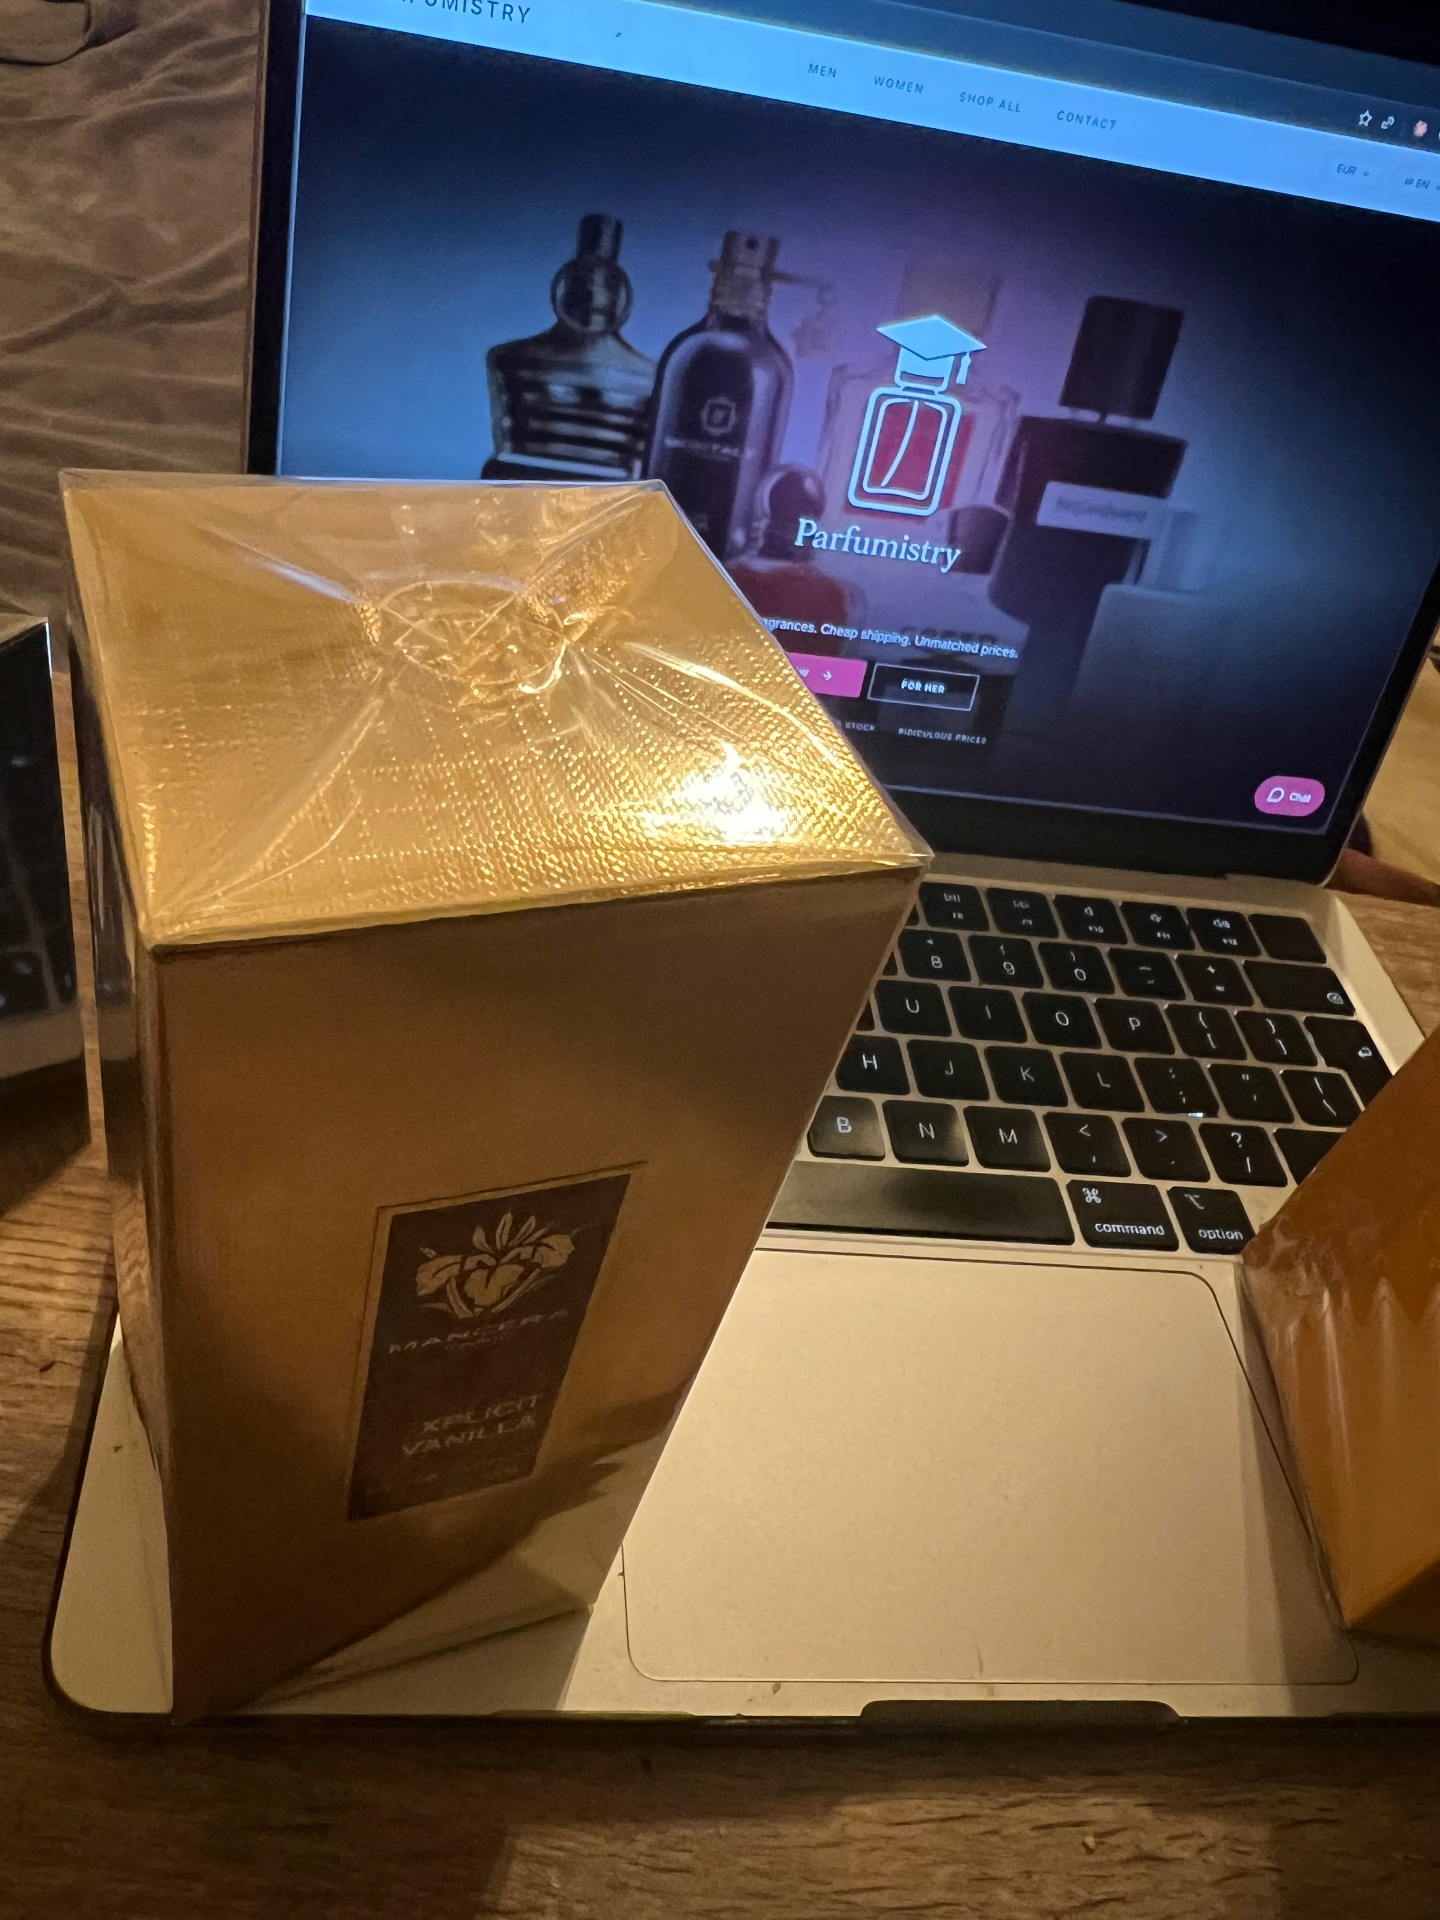
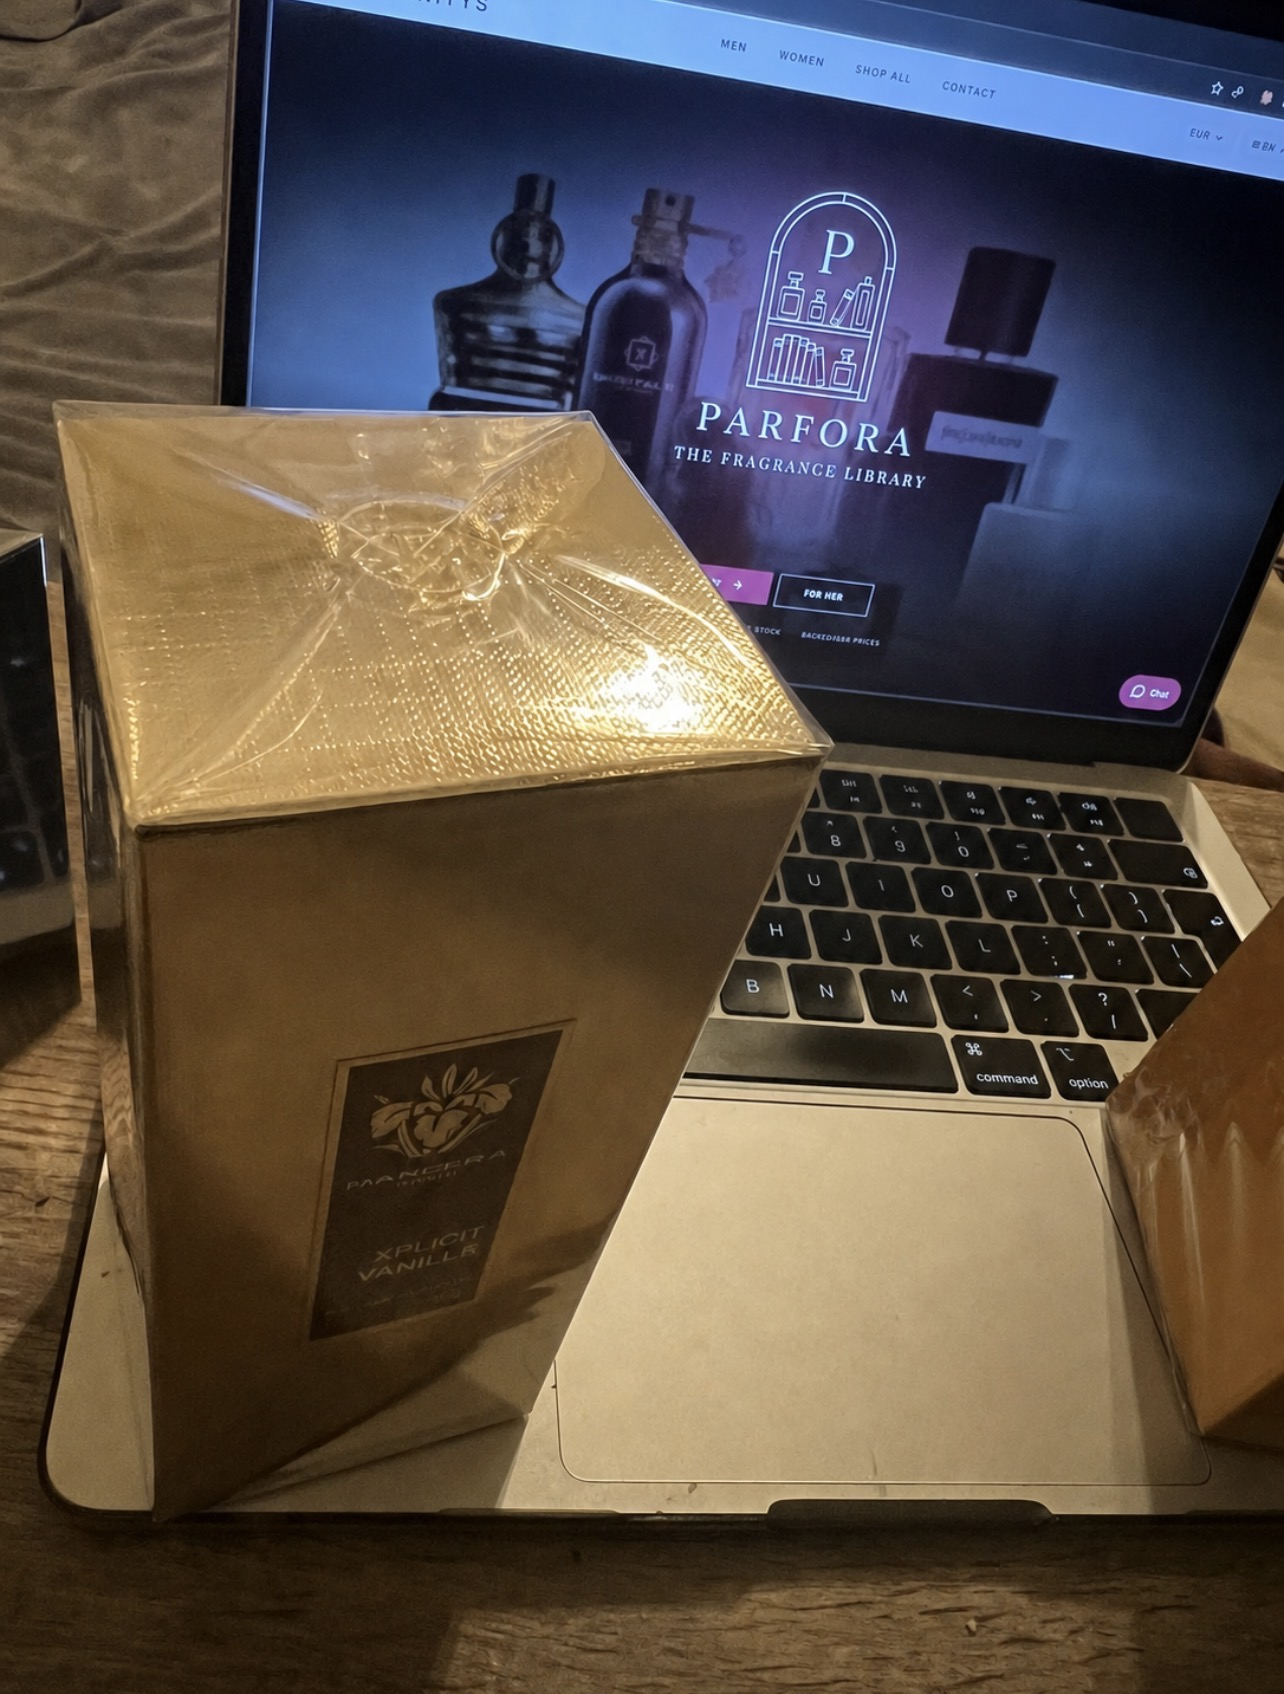
reviews: restore low-star reviews; carousel: swap in PARFORA-branded photos
- get-review-display edge function seed mirror was truncated at r18, so public
  visitors never received r19-r41 (which include the 2-star and 1-star reviews).
  Complete the mirror and redeploy so all 40 reviews show again (3/2/2/1-star
  histogram restored, rating back to 4.5).
- Replace two carousel proof photos that still showed old 'Parfumistry' branding
  with the new PARFORA-branded shots (Xplicit Vanille on MacBook, Le Beau + phone).
- Temporarily remove the old-branded Valentino carousel image until a rebranded
  replacement is provided; update stale alt text.

diff --git a/src/components/home/ProofCarousel.tsx b/src/components/home/ProofCarousel.tsx
@@ -3,9 +3,8 @@ import { Star, ChevronRight } from 'lucide-react';
 
 const proofImages = [
   { src: '/images/proof/aventus-absolu.webp', alt: 'Aventus Absolu' },
-  { src: '/images/proof/customer-tablet-shop.jpg', alt: 'Customer browsing Parfumistry' },
-  { src: '/images/proof/mancera-xplicit-vanilla.jpg', alt: 'Mancera Xplicit Vanilla' },
-  { src: '/images/proof/valentino-born-in-roma.jpg', alt: 'Valentino Born in Roma' },
+  { src: '/images/proof/customer-tablet-shop.jpg', alt: 'Customer order — Le Beau Le Parfum' },
+  { src: '/images/proof/mancera-xplicit-vanilla.jpg', alt: 'Paangora Xplicit Vanille' },
   { src: '/images/proof/le-male-parfum-1.webp', alt: 'Le Male Parfum' },
   { src: '/images/proof/le-male-parfum-2.webp', alt: 'Le Male Parfum' },
   { src: '/images/proof/pdm-layton.webp', alt: 'Parfums de Marly Layton' },
